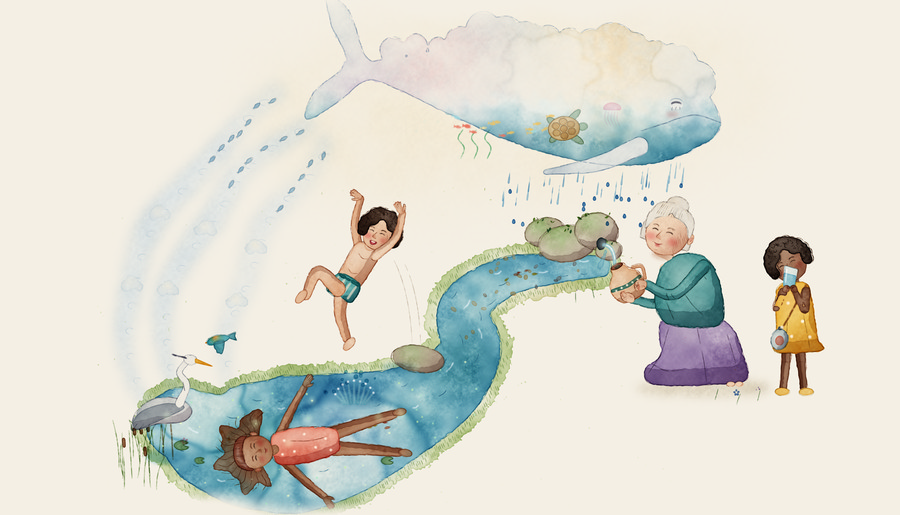
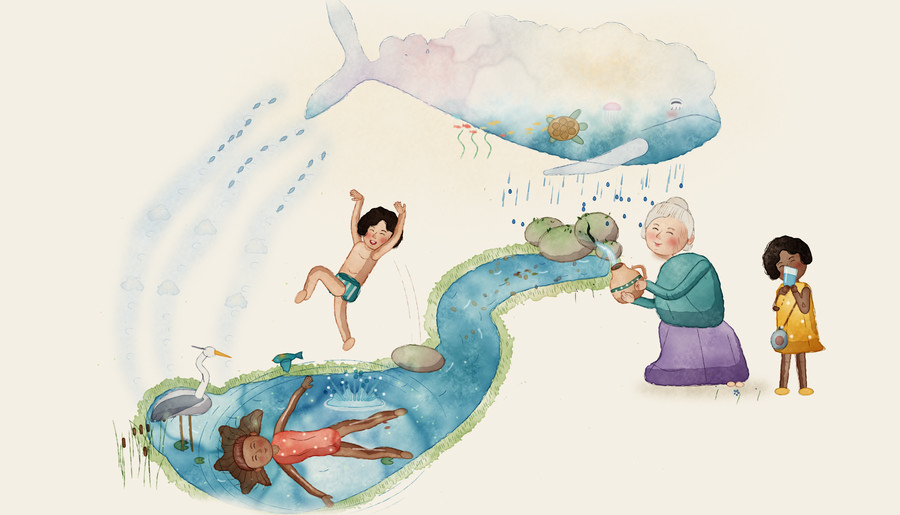
Calendario Arte: Design 4 round 3 for March and April
Claude-Session: https://claude.ai/code/session_01WLMKSDKQCN5ewxoWJ2uMJK

diff --git a/design/calendario-arte/generadores/diseno4/mes-03-d.py b/design/calendario-arte/generadores/diseno4/mes-03-d.py
@@ -485,7 +485,7 @@ mano(lz, 1312, 482, -105, 19, 'piel5', 'agarra', lado=-1)
 
 # ------------------------------------------------------------------ small things with intention
 # a pair of dragon... no: a kingfisher darting along the river, a flash of turquoise and orange
-pajaro(lz, 360, 560, 19, '#2f9cb0', ang=170, alas='arriba', vientre='#f0a050')
+pajaro(lz, 470, 590, 19, '#2f9cb0', ang=172, alas='arriba', vientre='#f0a050')
 # blue wildflowers and mint at the bank by the spring
 for (x, y) in ((1180, 660), (1215, 668), (1250, 662), (980, 492), (950, 500)):
     lz.lapiz([[(x, y), (x + rng.normal(0, 3), y - 18)]], '#4f6f45', grosor=0.8, presion=0.6)
